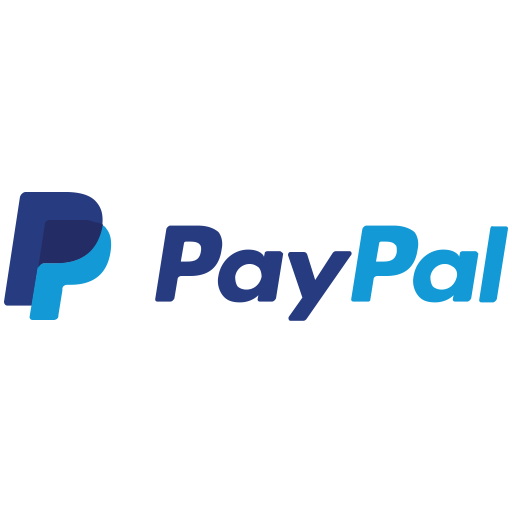
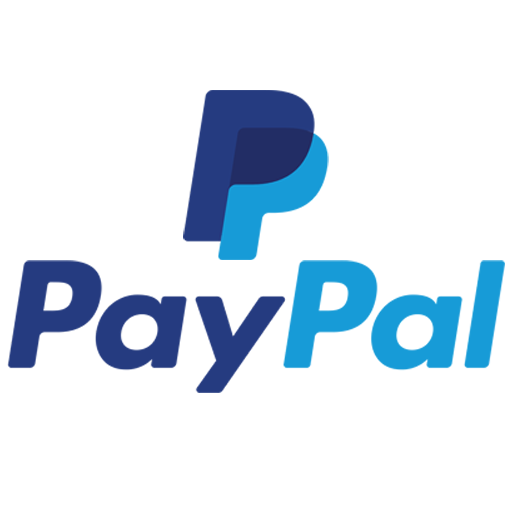
dodao sam slike, i promenio css da se lepse vidi

Changed region(s): [[0.0, 0.1562, 1.0, 0.7812]]

diff --git a/public/front/assets/css/style.css b/public/front/assets/css/style.css
@@ -8053,7 +8053,7 @@ body .component-desc.component-desc-ct {
 }
 
 .f-menu img {
-	width:25%;
+	width:28%;
 	float:left;
 	margin-right:10px;
 }
@@ -8256,6 +8256,11 @@ body .component-desc.component-desc-ct {
 	width:100% !important;
 }
 	
+.f-menu img {
+	width:32%;
+	margin-left:10px;
+}
+	
 }
 
 
@@ -8313,7 +8318,7 @@ body .component-desc.component-desc-ct {
 	}
 	
 	.f-menu img {
-		width:10%;
+		width:12%;
 		float:none;
 	}
 	
@@ -8351,6 +8356,9 @@ body .component-desc.component-desc-ct {
 	float:none;
 	width:100% !important;margin-top:50px;
 }
+
+
+
 }
 
 @media only screen and (max-width: 480px) {
@@ -8394,6 +8402,11 @@ body .component-desc.component-desc-ct {
 	float:none;
 	width:100% !important;
 }
+
+.f-menu img {
+	width:20%;
+}
+
 }
 
 
@@ -9471,6 +9484,11 @@ Media
 }
 .nikolabuttonlogin2 {
 	margin-top:37% !important;
+}
+
+.f-menu img {
+	width:35%;
+	margin-left:10px;
 }
 	
 }

diff --git a/resources/views/front/layouts/footer.blade.php b/resources/views/front/layouts/footer.blade.php
@@ -34,6 +34,8 @@
                     <li><img src="{{ asset('front/assets/img/cards/visa.png') }}" alt=""></li>
                     <li><img src="{{ asset('front/assets/img/cards/master-card.png') }}" alt=""></li>
                     <li><img src="{{ asset('front/assets/img/cards/american-express.png') }}" alt=""></li>
+                    <li><img src="{{ asset('front/assets/img/cards/discover.png') }}" alt=""></li>
+                    <li><img src="{{ asset('front/assets/img/cards/pay-pal.png') }}" alt=""></li>
                 </ul>
             </div>
             <div class="f-subscribe">
